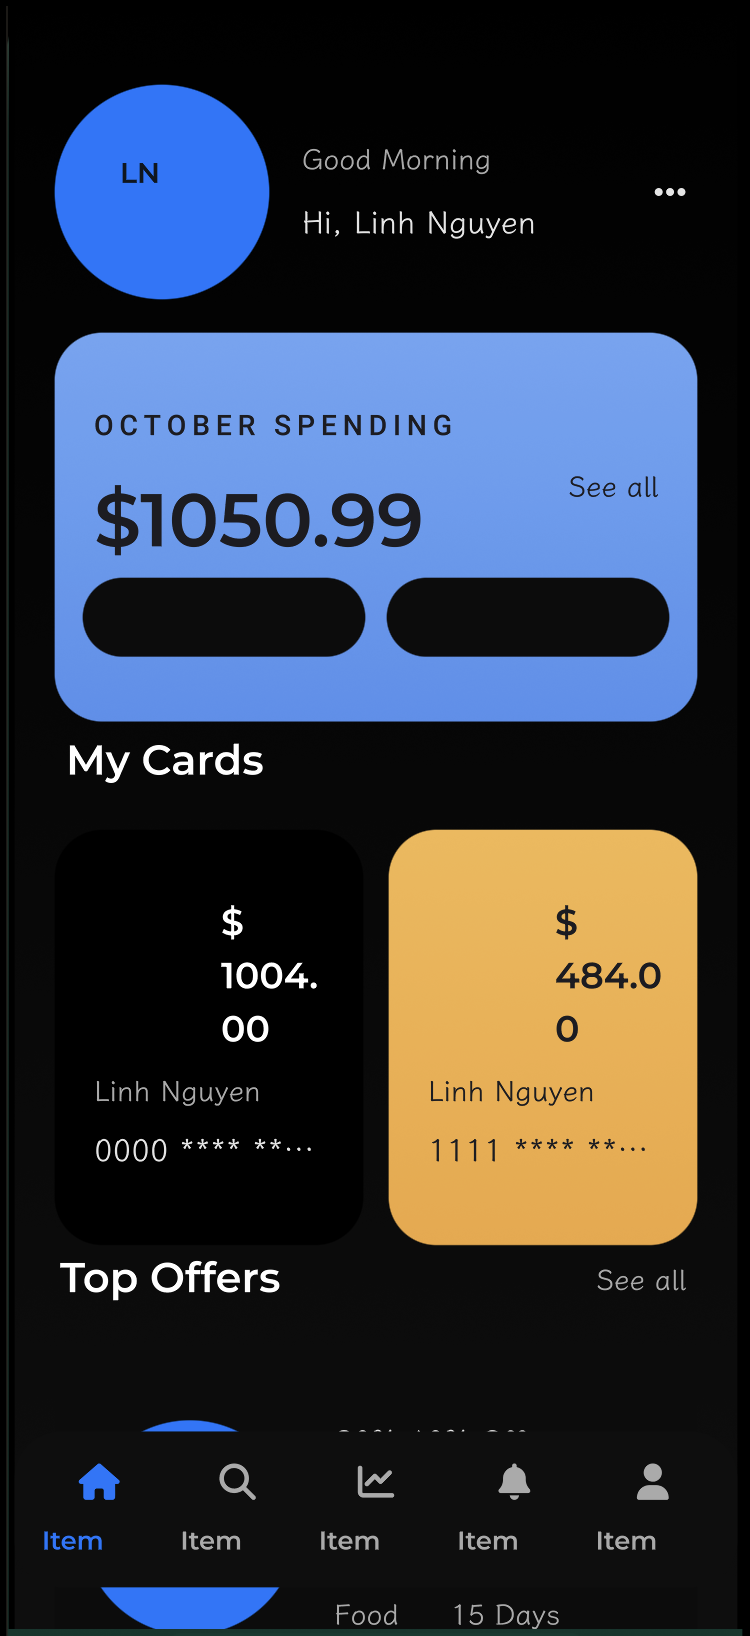
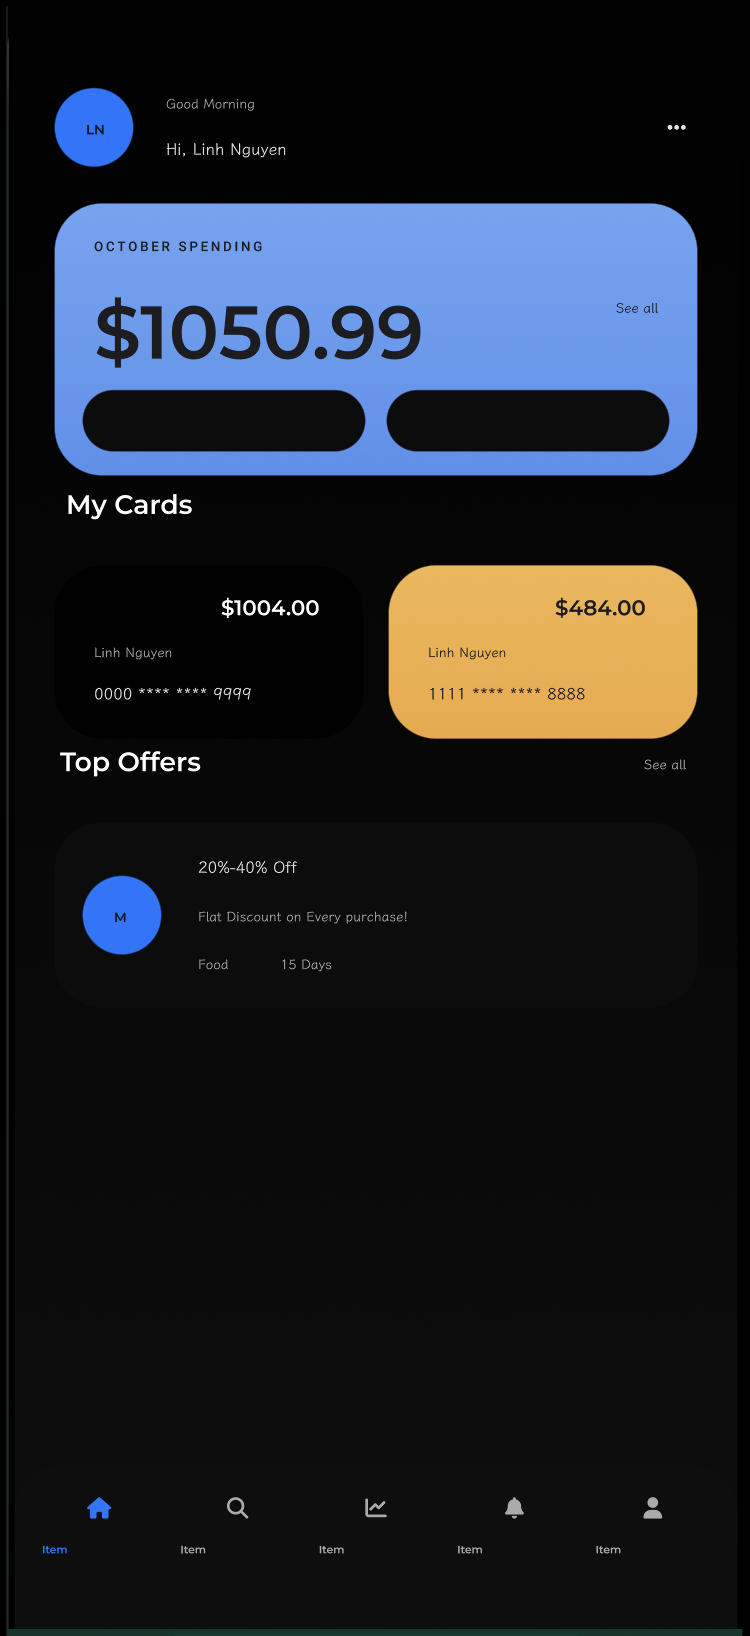
feat(l0-loop): pipeline self-contained in-repo for desktop+android rails
SPLASH now points at the in-repo splash/ mirror (l0validate + lower_kit
examples verified present and current) instead of a sibling ~/home/Splash;
the two LLM helpers are vendored as lab/sketch/llm.py, dropping the
style-factory research-bench import; the stale first-generation
lab/beauty-pipeline/ gets a pointer README so one name means one thing;
tools/beauty-pipeline.sh is the discoverable entry point. Only the ohos
stage still needs the external Splash-OH checkout, and the README says so.
Smoke: in-repo l0validate passes on a camo card; wrapper status works.

diff --git a/lab/sketch/llm.py b/lab/sketch/llm.py
@@ -1,0 +1,27 @@
+"""The pipeline's only LLM surface, vendored so lab/sketch stands alone.
+
+Two callers, one contract: `claude_text` runs a single prompt through the
+claude CLI with Read as its only tool (the vision judge and the card author
+both hand it file paths to look at); `strip_fence` peels a fenced block off
+a reply. Extracted from lab/style-factory/batch_styles.py, which carries a
+whole research bench this pipeline does not need.
+"""
+import json
+import pathlib
+import re
+import subprocess
+
+HERE = pathlib.Path(__file__).resolve().parent
+
+
+def claude_text(prompt, timeout=900):
+    r = subprocess.run(
+        ["claude", "-p", prompt, "--model", "opus", "--allowedTools", "Read",
+         "--output-format", "json"],
+        capture_output=True, text=True, timeout=timeout, cwd=HERE)
+    return json.loads(r.stdout)["result"]
+
+
+def strip_fence(text, lang=""):
+    m = re.search(rf"```{lang}[^\n]*\n(.*?)```", text, re.S)
+    return m.group(1) if m else text

diff --git a/lab/sketch/author_cards.py b/lab/sketch/author_cards.py
@@ -18,12 +18,11 @@ import subprocess
 import sys
 
 HERE = pathlib.Path(__file__).resolve().parent
-sys.path.insert(0, str(HERE.parent / "style-factory"))
-import batch_styles as B  # noqa: E402
+import llm as B  # noqa: E402
 
 import kitconf  # noqa: E402
 
-SPLASH = pathlib.Path.home() / "home" / "Splash"
+SPLASH = pathlib.Path(__file__).resolve().parents[2] / "splash"
 KIT = kitconf.load(sys.argv[sys.argv.index("--kit") + 1]
                    if "--kit" in sys.argv else "atro")
 NAMES = KIT["screens"]

diff --git a/lab/sketch/gen_ohos_atro.py b/lab/sketch/gen_ohos_atro.py
@@ -18,7 +18,7 @@ HERE = pathlib.Path(__file__).resolve().parent
 sys.path.insert(0, str(HERE))
 import kitconf
 L0 = pathlib.Path.home() / "home/octos-one/splash-makepad/components/l0"
-SPLASH = pathlib.Path.home() / "home/Splash"
+SPLASH = pathlib.Path(__file__).resolve().parents[2] / "splash"
 OH = pathlib.Path.home() / "home/Splash-OH/crates/splash-oh-native"
 KIT = kitconf.load(sys.argv[sys.argv.index("--kit") + 1]
                    if "--kit" in sys.argv else "atro")

diff --git a/lab/sketch/judge_shots.py b/lab/sketch/judge_shots.py
@@ -11,8 +11,7 @@ import sys
 
 HERE = pathlib.Path(__file__).resolve().parent
 sys.path.insert(0, str(HERE))
-sys.path.insert(0, str(HERE.parent / "style-factory"))
-import batch_styles as B  # noqa: E402
+import llm as B  # noqa: E402
 import kitconf  # noqa: E402
 
 PROMPT = (

diff --git a/lab/sketch/README.md b/lab/sketch/README.md
@@ -1,5 +1,6 @@
 # The beauty pipeline: a purchased design kit → judged live cards on three backends
 
+Entry point: `tools/beauty-pipeline.sh` at the repo root (forwards here).
 One command per stage. Input is a UI kit bought from UI8 (a `.zip` holding a
 `.sketch`). Output is: a registered Splash theme pack, one validated L0 card
 per screen, renders on desktop / Android / HarmonyOS, and a score plus a
@@ -16,9 +17,12 @@ Run the preflight first; it checks everything below and names what is missing:
     python3 run_kit.py --kit <name> --stages doctor
 
 - macOS host. Python 3 with `pillow` + `numpy`.
-- Rust toolchain; these repos as siblings under `~/home/`:
-  `Splash` (the language), `octos-one` (this repo, with `splash/` and
-  `splash-makepad/` inside it), `Splash-OH` (the HarmonyOS app).
+- Rust toolchain. Desktop and Android rails are **self-contained in this
+  repo**: the language crates (`../../splash/`), the theme kit
+  (`../../splash-makepad/`), the render binary (`../../app/`) and the LLM
+  helper (`llm.py`, vendored) all live here. Only the HarmonyOS rail needs a
+  sibling checkout of `Splash-OH` under `~/home/` — skip the `ohos` stage and
+  nothing else changes.
 - Desktop render binary: `cd ~/home/octos-one/app && cargo build -p octos-app`.
 - `claude` CLI on PATH — the strict judge and the card author both run
   through `claude -p` (vision + text). Any account that can run it works.

diff --git a/lab/beauty-pipeline/README.md b/lab/beauty-pipeline/README.md
@@ -1,0 +1,9 @@
+# Superseded — the beauty pipeline lives in `lab/sketch/`
+
+This directory is the FIRST beauty pipeline (single-card generation scored by
+an on-device vision critic; it plateaued at 6/10 on the generator's ceiling
+and is kept for the record).
+
+The shipping pipeline — purchased design kit → theme pack → LLM-authored L0
+cards → three rendered rails → fill gate + calibrated judge — is
+`lab/sketch/run_kit.py`. Start with `lab/sketch/README.md`.
